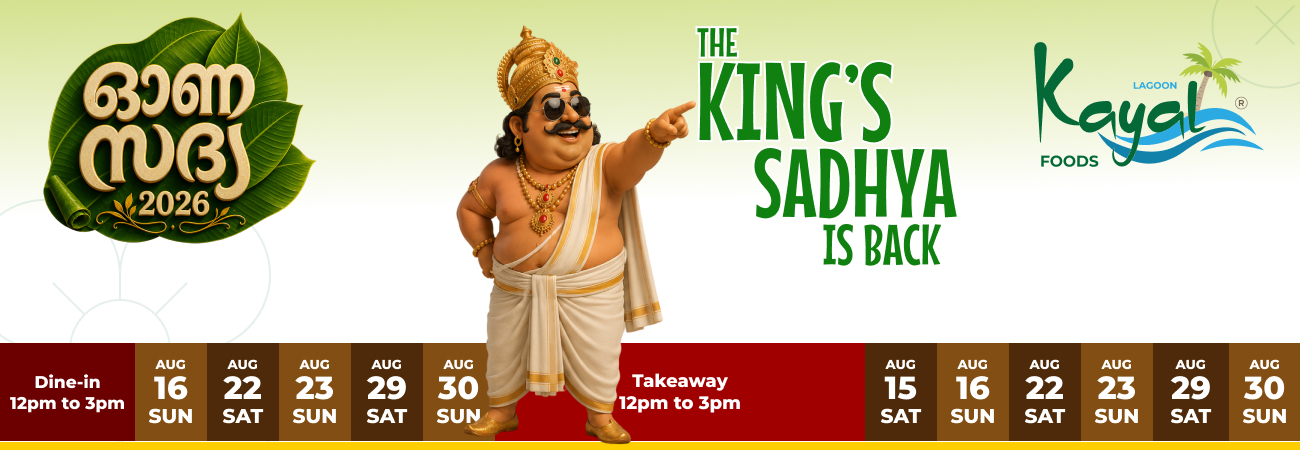
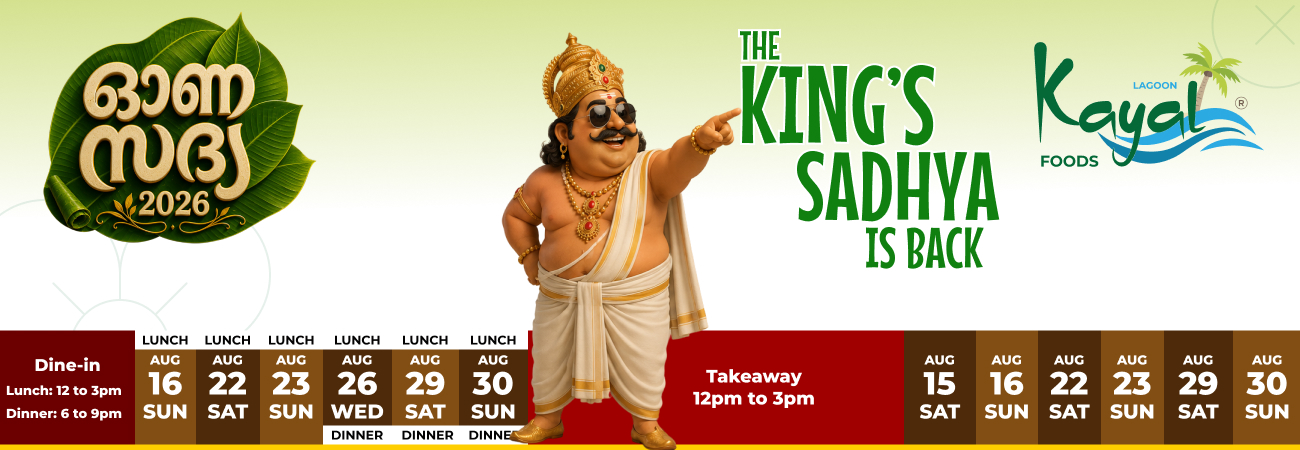
Label Lunch & Dinner dates and update hero image
- Show a small "Lunch & Dinner" caption under Aug 26, 29, 30 on the
  date-selection step, since those are the only dine-in dates with
  both sessions.
- Swap in the updated hero flyer image reflecting the new lunch/dinner
  schedule.

Changed region(s): [[0.0, 0.0622, 1.0, 1.0]]

diff --git a/onam26/components/booking-wizard/StepDate.tsx b/onam26/components/booking-wizard/StepDate.tsx
@@ -1,4 +1,4 @@
-import { datesForService, formatEventDate, type ServiceType } from "@/data/onam-event";
+import { datesForService, formatEventDate, onamEvent, type ServiceType } from "@/data/onam-event";
 
 export default function StepDate({
   serviceType,
@@ -17,16 +17,24 @@ export default function StepDate({
       </h2>
       <p className="mt-1 text-ink/70">12pm–3pm on the day.</p>
       <div className="mt-6 grid grid-cols-2 gap-3 sm:grid-cols-3">
-        {dates.map((date) => (
-          <button
-            key={date}
-            type="button"
-            onClick={() => onSelect(date)}
-            className="step-card rounded-xl border-2 border-leaf/20 bg-white px-4 py-4 text-center font-semibold text-leaf hover:border-leaf"
-          >
-            {formatEventDate(date)}
-          </button>
-        ))}
+        {dates.map((date) => {
+          const hasDinner =
+            serviceType === "dine_in" &&
+            (onamEvent.dineInDinnerDates as readonly string[]).includes(date);
+          return (
+            <button
+              key={date}
+              type="button"
+              onClick={() => onSelect(date)}
+              className="step-card rounded-xl border-2 border-leaf/20 bg-white px-4 py-4 text-center font-semibold text-leaf hover:border-leaf"
+            >
+              {formatEventDate(date)}
+              {hasDinner && (
+                <span className="mt-1 block text-xs font-normal text-ink/50">Lunch &amp; Dinner</span>
+              )}
+            </button>
+          );
+        })}
       </div>
     </div>
   );
